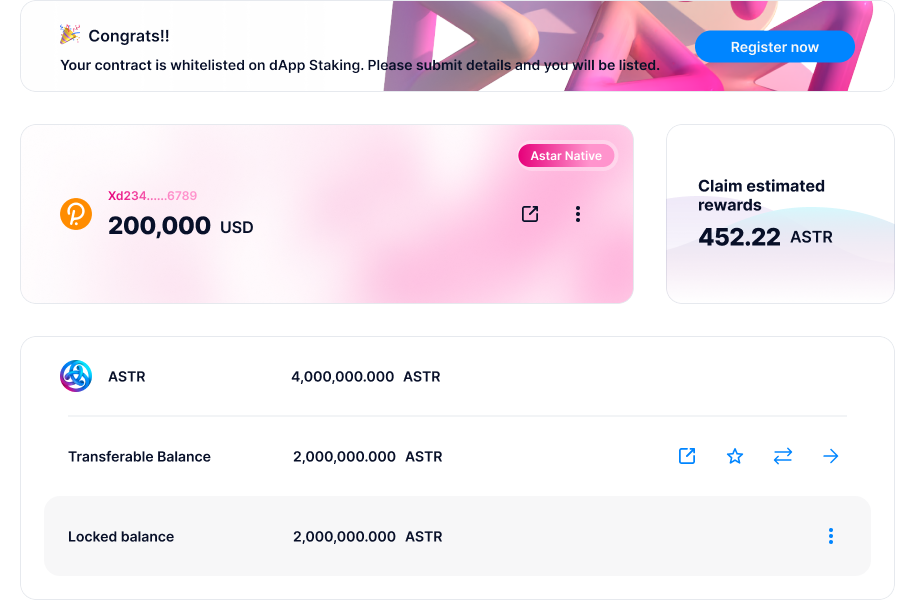
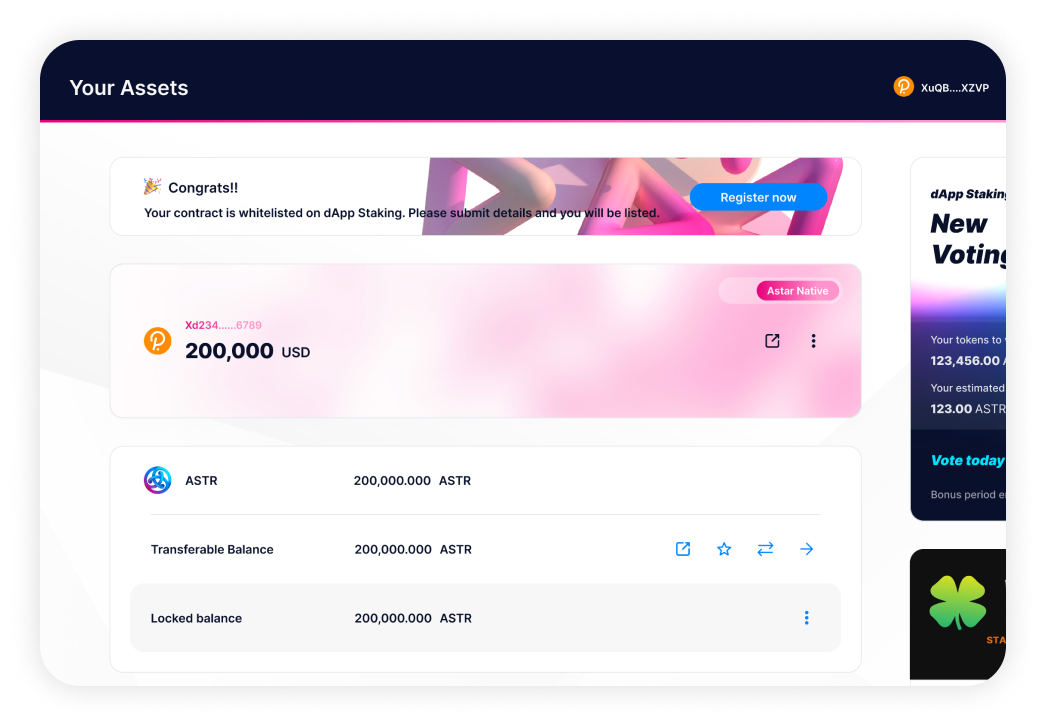
Update images for Dev Guide (#585)

diff --git a/docs/use/dapp-staking/for-devs/register-dapp.md b/docs/use/dapp-staking/for-devs/register-dapp.md
@@ -61,6 +61,8 @@ Finally, click on **Register** and sign the transaction on the network;
 
 Congratulations! 🎉 Your project is now listed in dApp Staking and you can start your campaign and communication to attract stakers.
 
+<Figure src={require('/docs/use/dapp-staking/for-devs/img/dApp_page_2.png').default} width="80%" />
+
 :::tip
 
 When your dApp is deployed, we would appreciate it if you shared this with your community. We have created a template that you can use to write the article. You can find it [here](https://astarnetwork.notion.site/dApp-staking-template-Astar-Network-07d029f2d89644f48a17650522968682).

diff --git a/docs/use/dapp-staking/for-devs/manage-dApp-Staking.md b/docs/use/dapp-staking/for-devs/manage-dApp-Staking.md
@@ -34,3 +34,5 @@ Claiming will release all your pending rewards;
 - **Edit Project Page:** Allows you to edit information about your dApp Staking projects;
 - **Edit your owner info:** If you want to change the registered smart contract address and the address receiving developer rewards ;
 - **Add a promotion card:** If you are running a campaign, you can create a promotion card that will be added to the dApp Staking section of the Portal after review;
+
+<Figure src={require('/docs/use/dapp-staking/for-devs/img/dApp_owner_page_2.png').default} width="80%" />

diff --git a/docs/use/dapp-staking/for-devs/create-promotion.md b/docs/use/dapp-staking/for-devs/create-promotion.md
@@ -10,7 +10,7 @@ If you have a campaign or new product you would like to share in the community, 
 
 You can create a PR once a month, at most.
 
-<Figure src={require('/docs/use/dapp-staking/for-devs/img/Promotion_card_1.png').default} width="100%" />
+<Figure src={require('/docs/use/dapp-staking/for-devs/img/Promotion_card_3.png').default} width="80%" />
 
 # Steps for creating a PR for the promotion card
 
